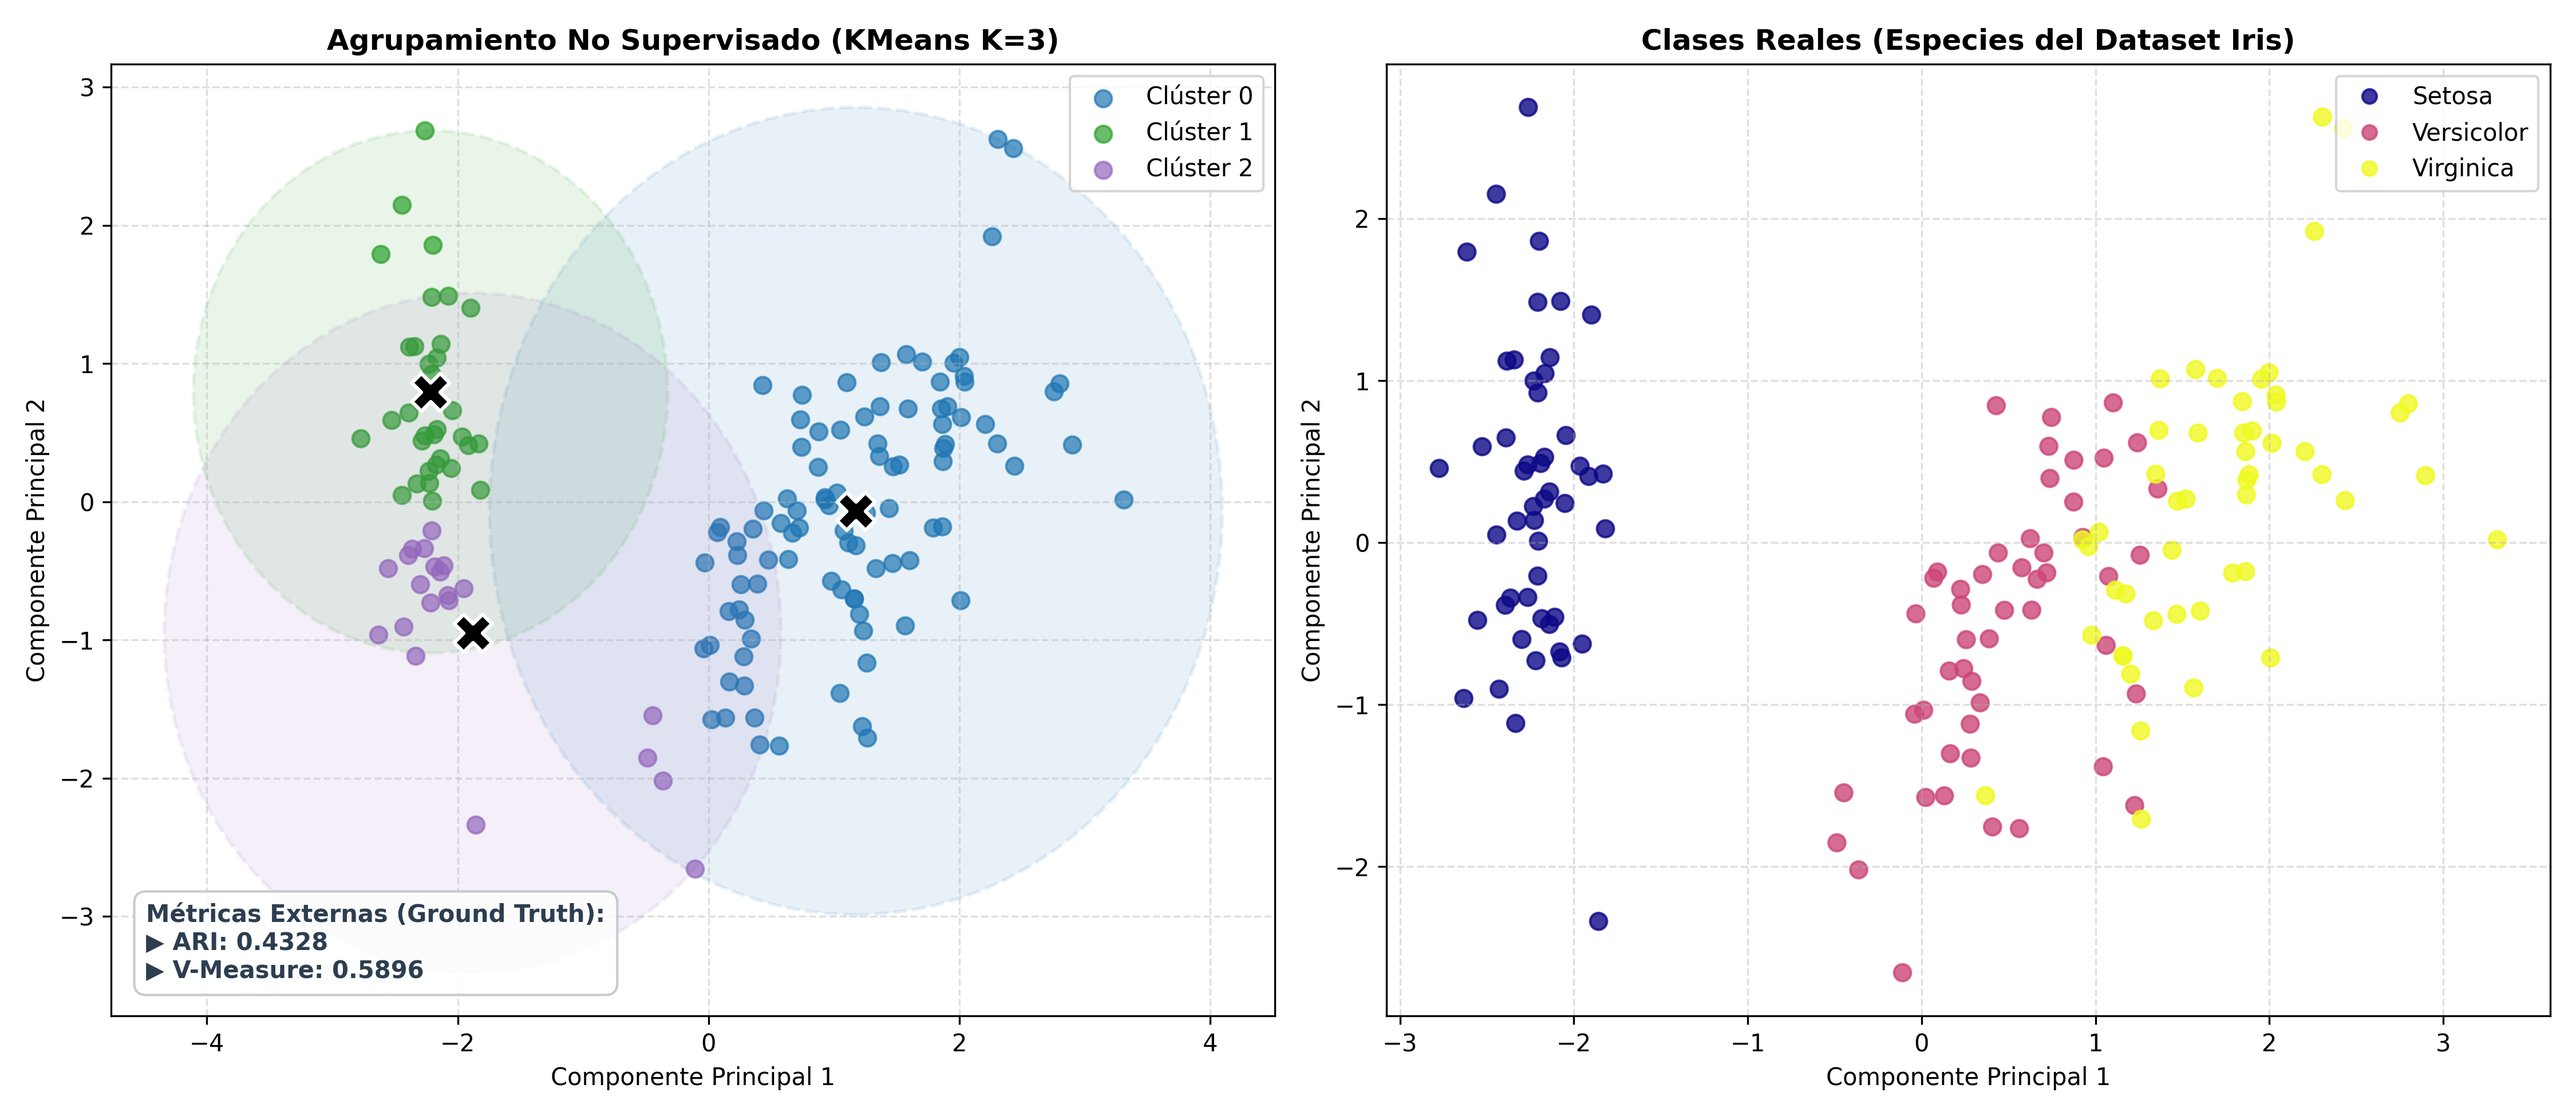
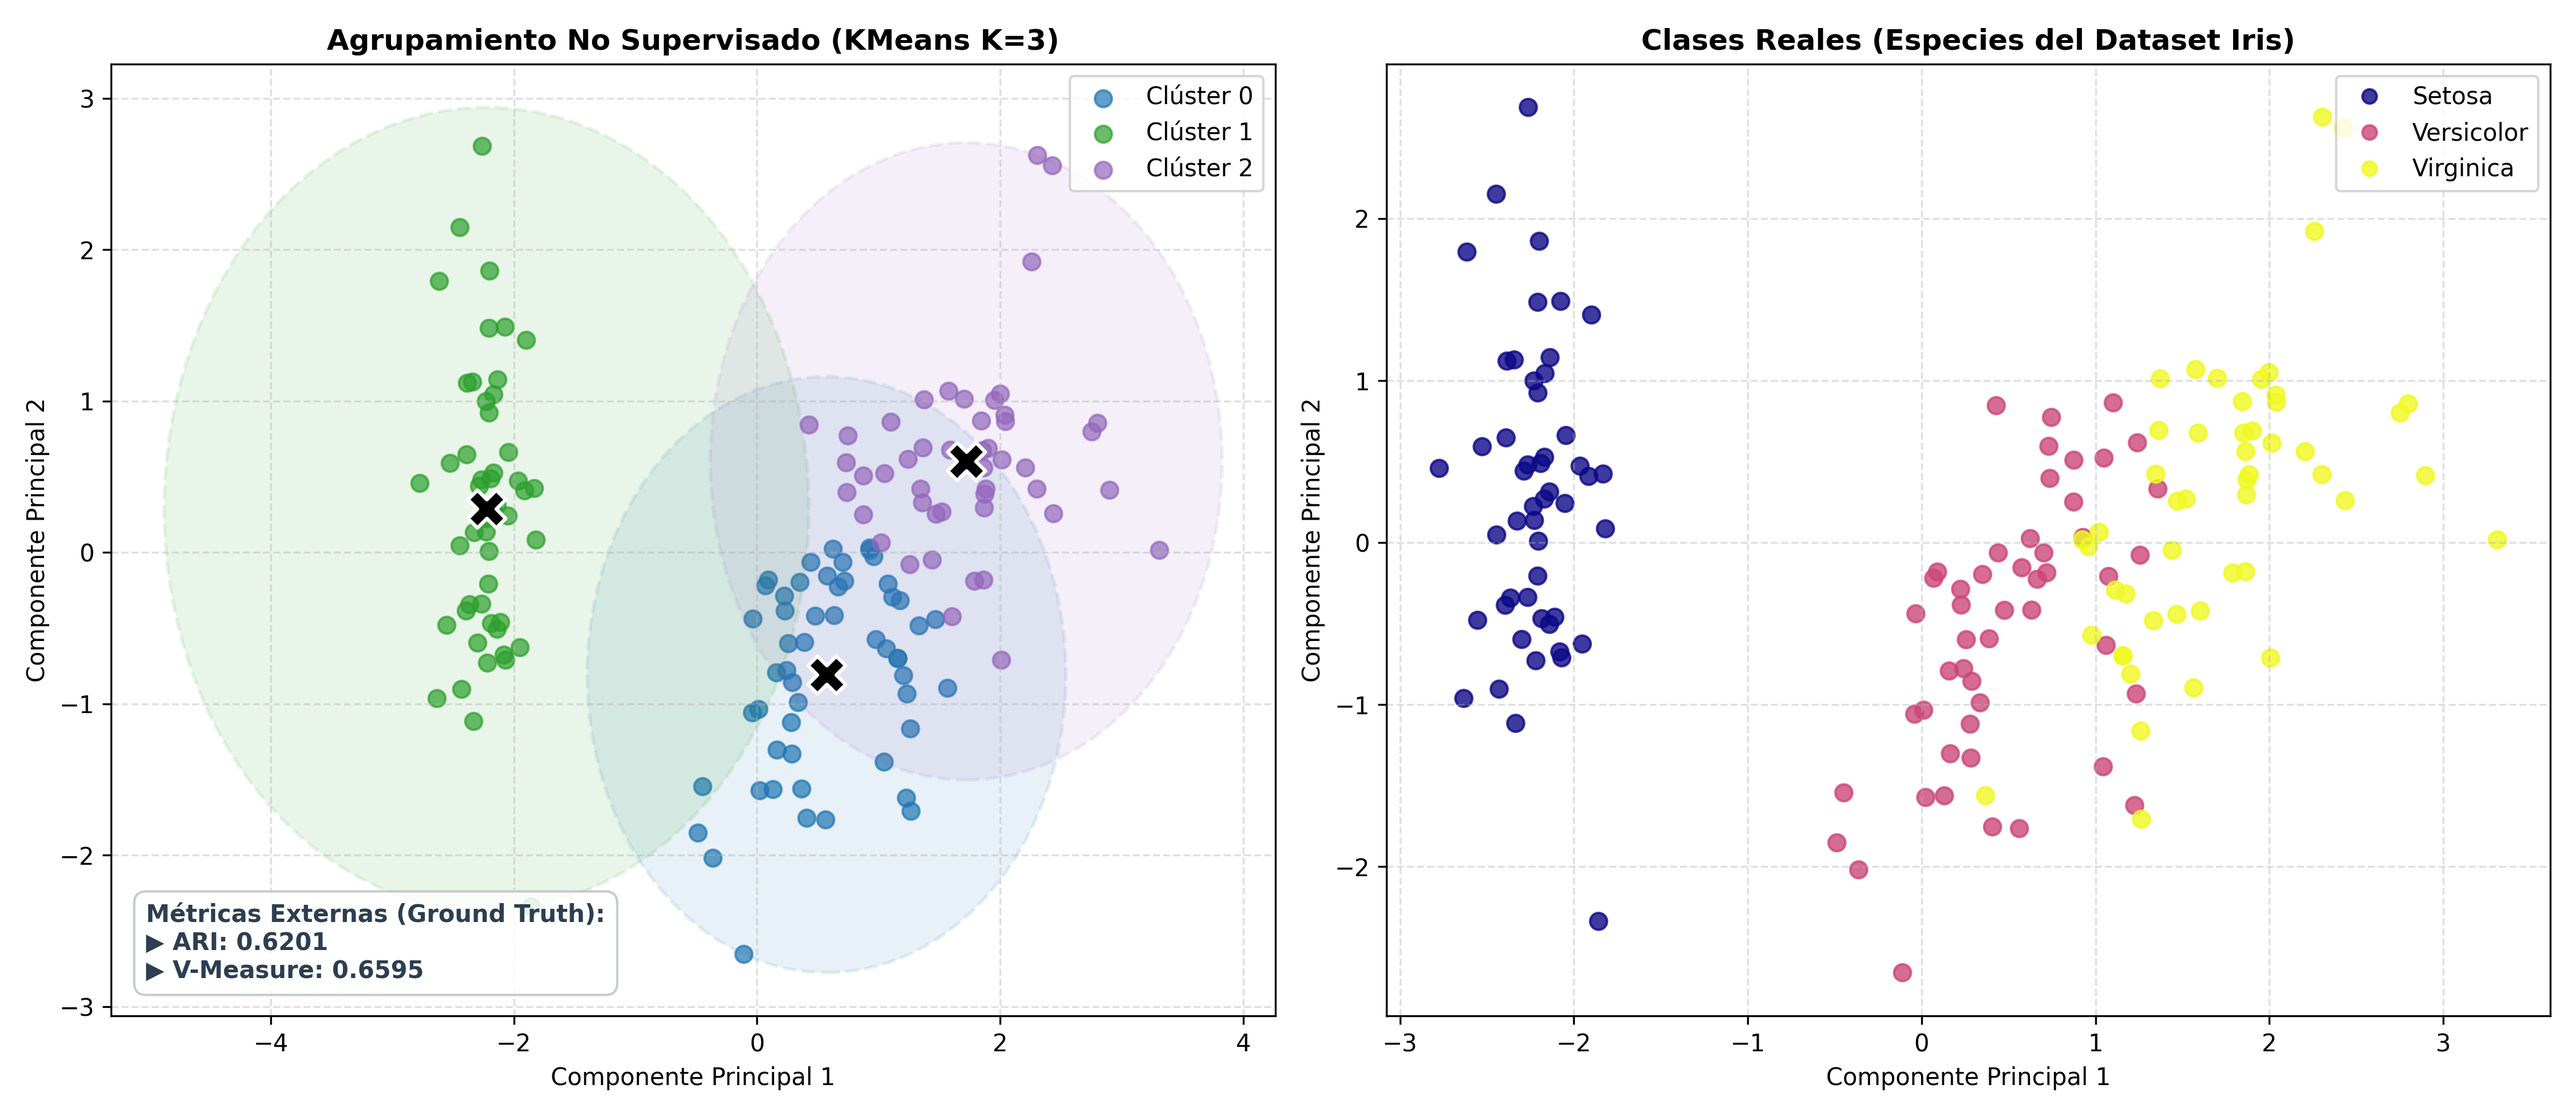
n_init=10 en no supervizado

diff --git a/Inteligencia Artifical/Segundo Proyecto/supervisado.py b/Inteligencia Artifical/Segundo Proyecto/supervisado.py
@@ -67,17 +67,14 @@ def graficos_iniciales():
 def boxplots(df):
     print("\n=== GENERANDO BOXPLOTS AUTOMÁTICOS BASADOS EN TOP 10 DE CORRELACIÓN ===")
     
-    # 1. Creamos una copia para no alterar el DataFrame original y preparamos las etiquetas
     df_temp = copy.deepcopy(df)
     df_temp['Diagnóstico'] = df_temp['target'].map({0: 'Maligno (0)', 1: 'Benigno (1)'})
     
-    # 2. CALCULO MATEMÁTICO DE SELECCIÓN (Punto 3 y 4)
-    # Calculamos la correlación absoluta con el target y sacamos el Top 10 (excluyendo al 'target' mismo)
     matriz_corr = df_temp.drop(columns=['Diagnóstico']).corr()
     top_10_serie = matriz_corr['target'].abs().sort_values(ascending=False).iloc[1:11]
     top_10_atributos = top_10_serie.index.tolist()
     
-    # IMPRESIÓN ELEGANTE EN CONSOLA
+
     print("\n" + "="*60)
     print("   TOP 10 ATRIBUTOS CON MAYOR CORRELACIÓN A LAS CLASES")
     print("="*60)
@@ -86,11 +83,9 @@ def boxplots(df):
     print("="*60 + "\n")
     
     
-    # 3. SEPARACIÓN AUTOMÁTICA POR ESCALAS
-    # Clasificamos las variables dinámicamente mirando el valor máximo absoluto que alcanzan en los datos
-    atributos_micro = []  # Para los que se mueven entre 0 y 1 (como concave points)
-    atributos_media = []  # Para rangos intermedios (como los radios, de 5 a 50)
-    atributos_macro = []  # Para valores gigantes (como perímetros y áreas, > 50)
+    atributos_micro = []  
+    atributos_media = []  
+    atributos_macro = []  
     
     for col in top_10_atributos:
         val_max = df_temp[col].abs().max()
@@ -101,9 +96,8 @@ def boxplots(df):
         else:
             atributos_macro.append(col)
             
-    # 4. GENERACIÓN DE LOS GRÁFICOS DINÁMICOS
+
     
-    # --- Gráfico 1: Escala Micro (Decimales) ---
     if atributos_micro:
         fig, ax = plt.subplots(figsize=(10, 6))
         df_temp.boxplot(column=atributos_micro, by='Diagnóstico', ax=ax)
@@ -115,7 +109,6 @@ def boxplots(df):
         plt.close()
         print("-> 'boxplot_auto_micro.png' generado.")
 
-    # --- Gráfico 2: Escala Media (Radios / Texturas intermedias) ---
     if atributos_media:
         fig, ax = plt.subplots(figsize=(8, 5))
         df_temp.boxplot(column=atributos_media, by='Diagnóstico', ax=ax)
@@ -127,13 +120,11 @@ def boxplots(df):
         plt.close()
         print("-> 'boxplot_auto_media.png' generado.")
 
-    # --- Gráfico 3: Escala Macro (Áreas y Perímetros separados dinámicamente para no aplastarse) ---
     if atributos_macro:
-        # Si hay más de un atributo macro, usamos subplots para que cada uno mantenga su legibilidad
+
         num_macro = len(atributos_macro)
         fig, ejes = plt.subplots(1, num_macro, figsize=(6 * num_macro, 6))
-        
-        # Si es solo 1 atributo macro, 'ejes' no es una lista, lo convertimos para poder iterar tranquilamente
+    
         if num_macro == 1:
             ejes = [ejes]
             

diff --git a/Inteligencia Artifical/Segundo Proyecto/nosupervizado.py b/Inteligencia Artifical/Segundo Proyecto/nosupervizado.py
@@ -69,7 +69,7 @@ def analizar_kmeans_metodo_codo_y_silhouette(X_scaled):
     
     print("PUNTOS 14, 15 Y 16")
     for k in valores_k:
-        kmeans = KMeans(n_clusters=k, n_init='auto', random_state=42)
+        kmeans = KMeans(n_clusters=k, n_init=10, random_state=42)
         kmeans.fit(X_scaled)
         
         inercias.append(kmeans.inertia_)
@@ -88,7 +88,7 @@ def analizar_kmeans_metodo_codo_y_silhouette(X_scaled):
 def visualizar_clusters_y_clases_reales(X_pca, X_scaled, y_real, pca_transformer, k_elegido):
     """Punto 17 y 18"""
     
-    kmeans_final = KMeans(n_clusters=k_elegido, n_init='auto', random_state=42)
+    kmeans_final = KMeans(n_clusters=k_elegido, n_init=10, random_state=42)
     kmeans_final.fit(X_scaled)
     labels_pred = kmeans_final.labels_
     
